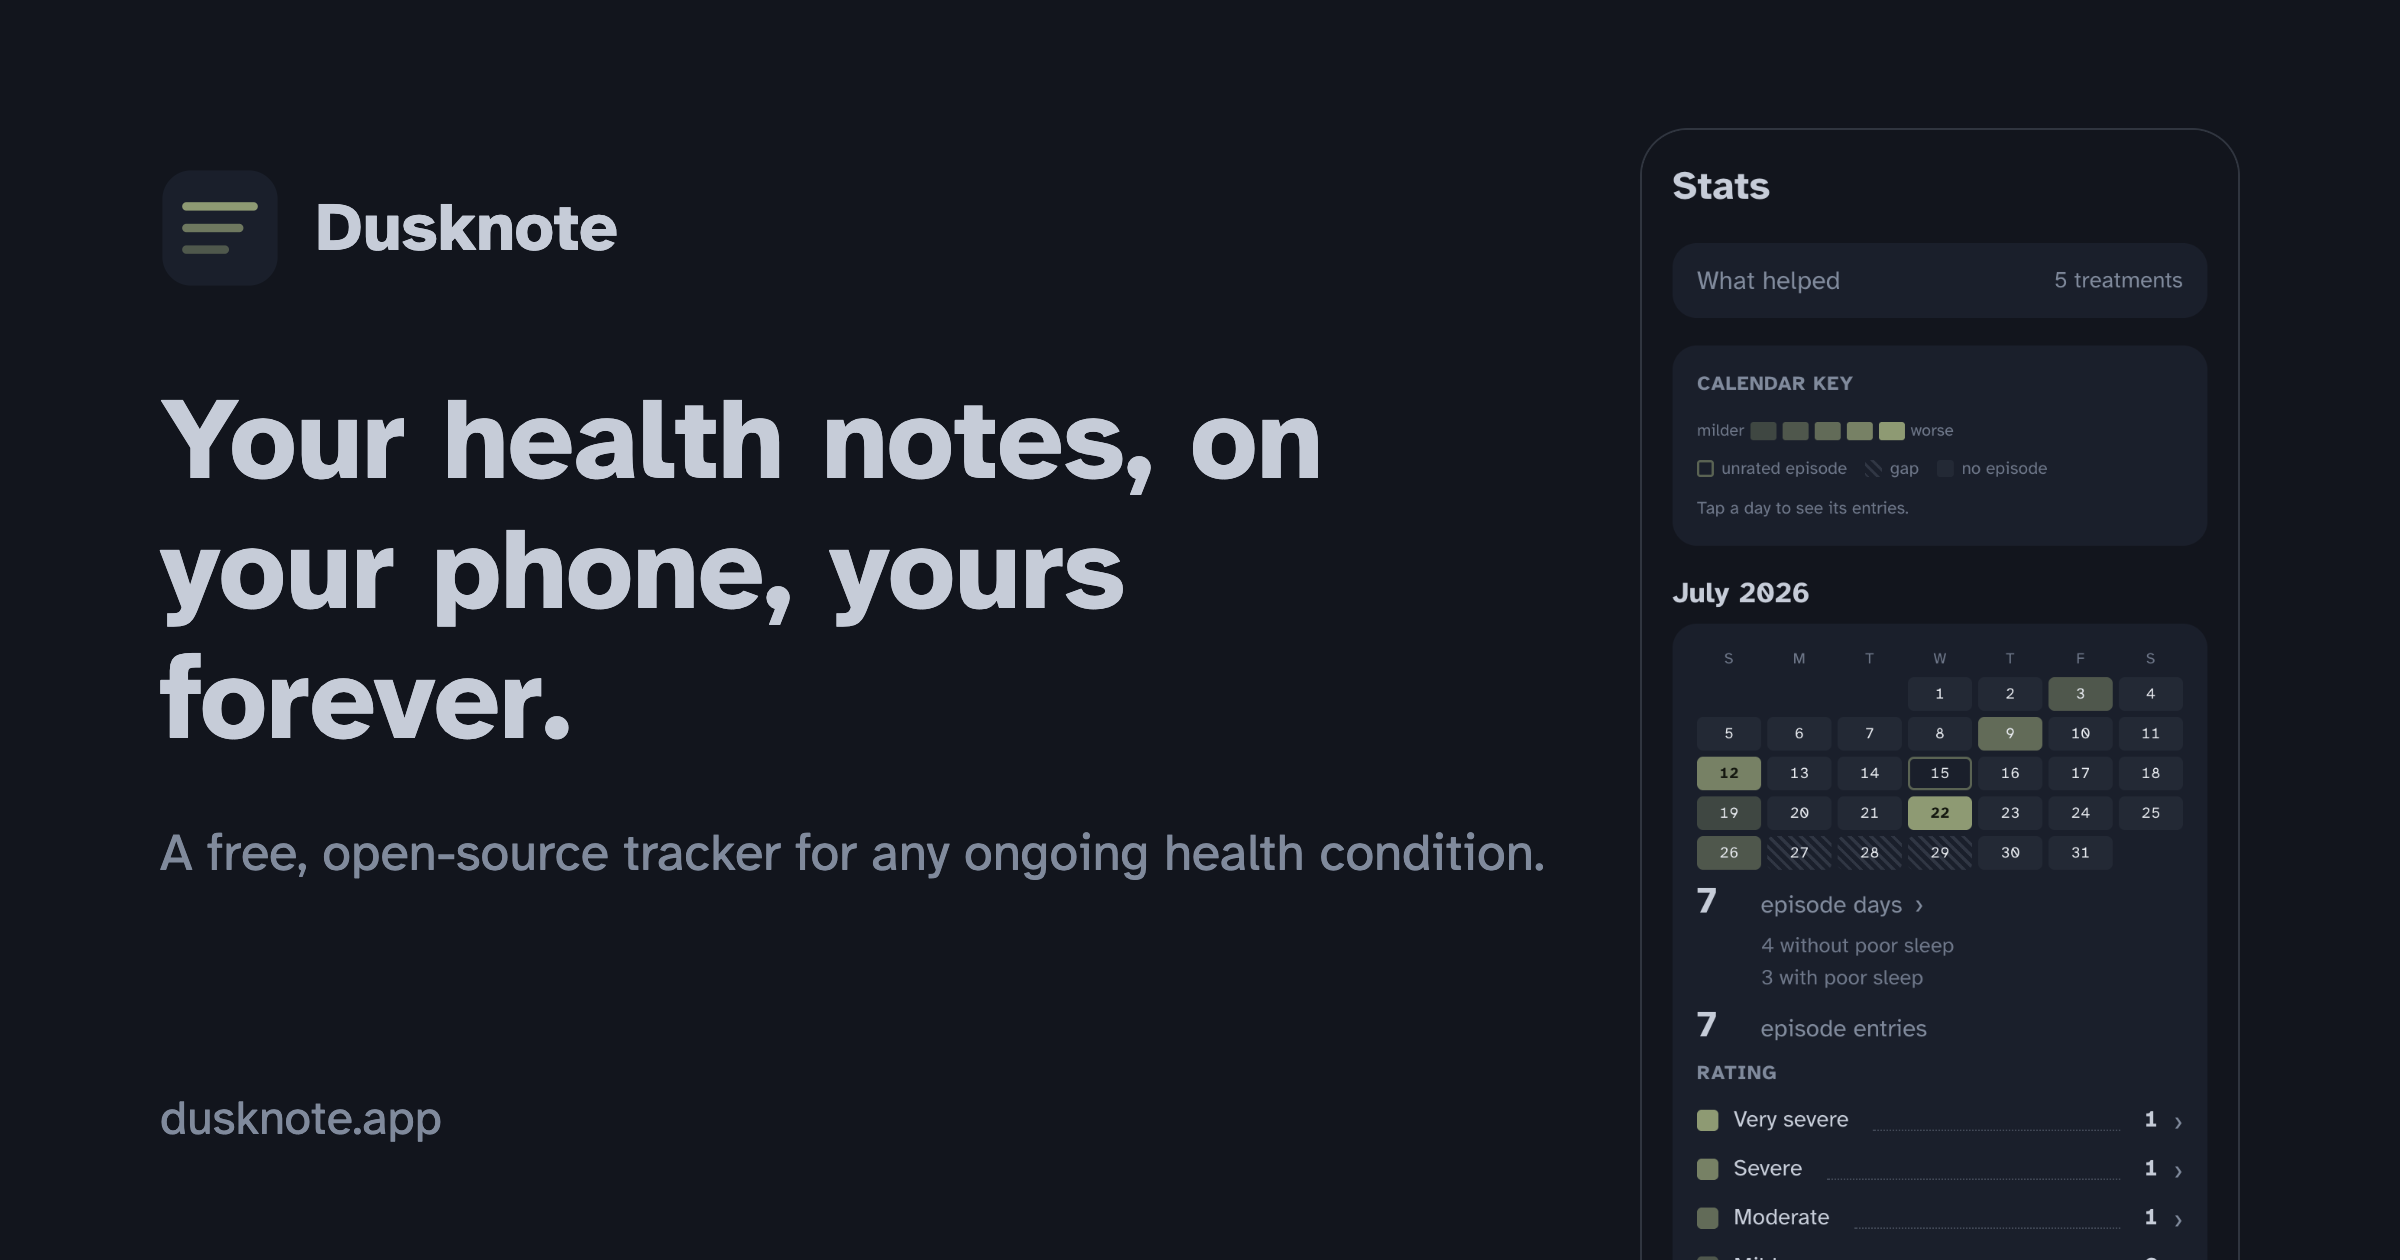
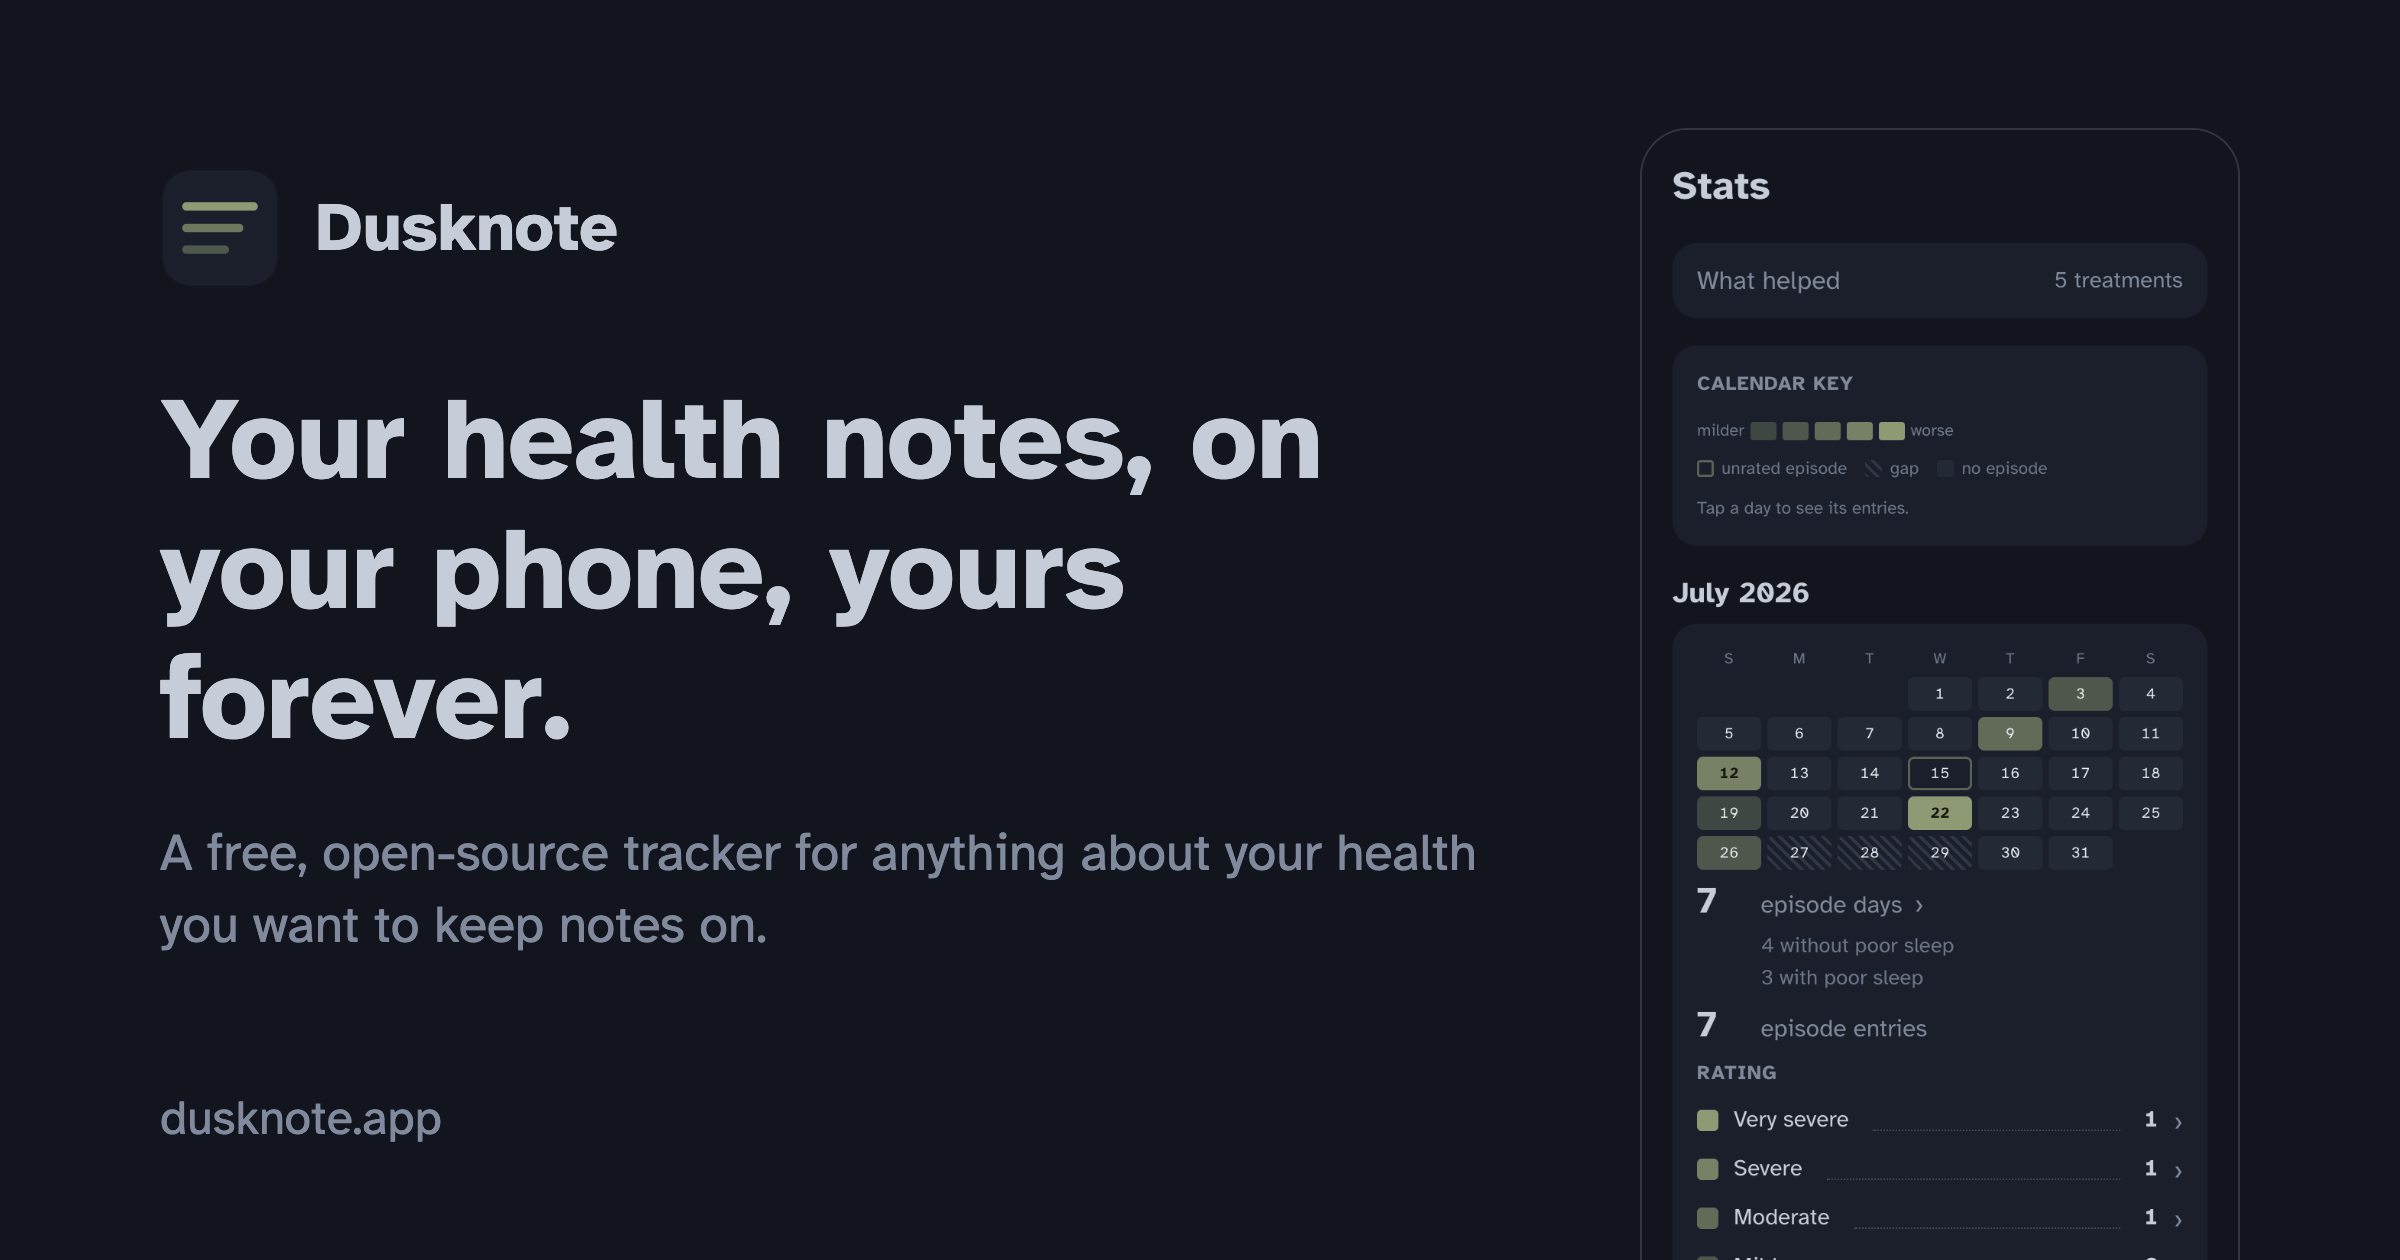
Make Dusknote description more inclusive: anything about your health you want to keep notes on (#42)
"Any ongoing health condition" made it seem like it must be a medical
issue, but it can be anything in someone's health that they want to
track. Every description now reads "a tracker for anything about your
health you want to keep notes on," the product page's opening names a
condition, a cycle, and the rest as examples, and the backup sentence
says entries "can back up" to a Google Sheet, since Google is optional.
The link preview picture carries the new line. Nothing in the app itself
changes.

🤖 Built with Claude Code

Changed region(s): [[0.375, 0.65, 0.625, 0.7119], [0.0625, 0.7119, 0.3125, 0.7738]]

diff --git a/site/index.html b/site/index.html
@@ -4,7 +4,7 @@
 <meta charset="utf-8">
 <meta name="viewport" content="width=device-width, initial-scale=1">
 <title>Dusknote: a free, open-source health tracker you own</title>
-<meta name="description" content="Dusknote is a free forever, open-source tracker for any ongoing health condition. Entries live on your device, back up to a Google Sheet in your own Drive, and export as a report you can share with anyone you choose.">
+<meta name="description" content="Dusknote is a free forever, open-source tracker for anything about your health you want to keep notes on. Entries live on your device, can back up to a Google Sheet in your own Drive, and export as a report you can share with anyone you choose.">
 <link rel="canonical" href="https://dusknote.app/">
 <!-- Google Analytics counts visits and referrers to this page and to the demo. It is the one
      script here that is not ours (decided 2026-09-06; the plan's "Measuring impact" section has
@@ -23,7 +23,7 @@
 <meta property="og:type" content="website">
 <meta property="og:url" content="https://dusknote.app/">
 <meta property="og:title" content="Dusknote">
-<meta property="og:description" content="Dusknote is a free forever, open-source tracker for any ongoing health condition. Entries live on your device, back up to a Google Sheet in your own Drive, and export as a report you can share with anyone you choose.">
+<meta property="og:description" content="Dusknote is a free forever, open-source tracker for anything about your health you want to keep notes on. Entries live on your device, can back up to a Google Sheet in your own Drive, and export as a report you can share with anyone you choose.">
 <meta property="og:image" content="https://dusknote.app/img/preview.png">
 <meta property="og:image:width" content="2400">
 <meta property="og:image:height" content="1260">
@@ -169,7 +169,7 @@
     <div class="hero-grid">
       <div class="col">
         <h1>Your health notes, on your phone, yours forever.</h1>
-        <p class="lede">Dusknote is a free forever (no upsells), open-source tracker for any ongoing health condition. Entries live on your device, back up to a Google Sheet in your own Drive, and export as a report you can share with anyone you choose.</p>
+        <p class="lede">Dusknote is a free forever (no upsells), open-source health tracker: for a condition, a cycle (like sleep, a menstrual cycle, or fertility treatment), or anything about your health you want to keep notes on. Entries live on your device, can back up to a Google Sheet in your own Drive, and export as a report you can share with anyone you choose.</p>
         <div class="cta-row">
           <a class="btn btn-primary" href="https://demo.dusknote.app">Try the demo</a>
           <a class="btn btn-secondary" href="#setup">Set it up</a>

diff --git a/index.html b/index.html
@@ -37,7 +37,7 @@
          says anything about whose copy it is. -->
     <meta property="og:type" content="website" />
     <meta property="og:title" content="%APP_NAME%" />
-    <meta property="og:description" content="A free forever, open-source tracker for any ongoing health condition. Entries live on your device, back up to a Google Sheet in your own Drive, and export as a report you can share with anyone you choose." />
+    <meta property="og:description" content="A free forever, open-source tracker for anything about your health you want to keep notes on. Entries live on your device, can back up to a Google Sheet in your own Drive, and export as a report you can share with anyone you choose." />
     <meta property="og:image" content="https://dusknote.app/img/preview.png" />
     <meta property="og:image:width" content="2400" />
     <meta property="og:image:height" content="1260" />

diff --git a/vite.config.ts b/vite.config.ts
@@ -99,7 +99,7 @@ export default defineConfig(({ mode }) => {
         manifest: {
           name: APP_NAME,
           short_name: APP_NAME,
-          description: 'A calm, local-device-first tracker for any ongoing health condition',
+          description: 'A calm, local-device-first tracker for anything about your health you want to keep notes on',
           display: 'standalone',
           background_color: '#12151d',
           theme_color: '#12151d',

diff --git a/AGENTS.md b/AGENTS.md
@@ -2,7 +2,7 @@
 
 # Dusknote: guidance for AI assistants
 
-You're reading the repository of Dusknote, a free, open-source, local-device-first tracker for any ongoing health condition. The person you're helping most likely wants to **set up their own copy**. This file tells you how to help them well.
+You're reading the repository of Dusknote, a free, open-source, local-device-first tracker for anything about your health you want to keep notes on. The person you're helping most likely wants to **set up their own copy**. This file tells you how to help them well.
 
 ## Your role: guide, never builder
 

diff --git a/CLAUDE.md b/CLAUDE.md
@@ -2,7 +2,7 @@
 
 # Dusknote: guidance for AI assistants
 
-You're reading the repository of Dusknote, a free, open-source, local-device-first tracker for any ongoing health condition. The person you're helping most likely wants to **set up their own copy**. This file tells you how to help them well.
+You're reading the repository of Dusknote, a free, open-source, local-device-first tracker for anything about your health you want to keep notes on. The person you're helping most likely wants to **set up their own copy**. This file tells you how to help them well.
 
 ## Your role: guide, never builder
 

diff --git a/README.md b/README.md
@@ -1,6 +1,6 @@
 # Dusknote
 
-A calm, local-device-first tracker for any ongoing health condition.
+A calm, local-device-first tracker for anything about your health you want to keep notes on.
 
 Your entries live on your phone first. They sync to a Google Sheet in your own Google Drive, so you own the data, it stays readable forever, and no company can lose it or hold it hostage. It installs to your home screen, works fully offline, and prints a report you can hand to a doctor.
 
